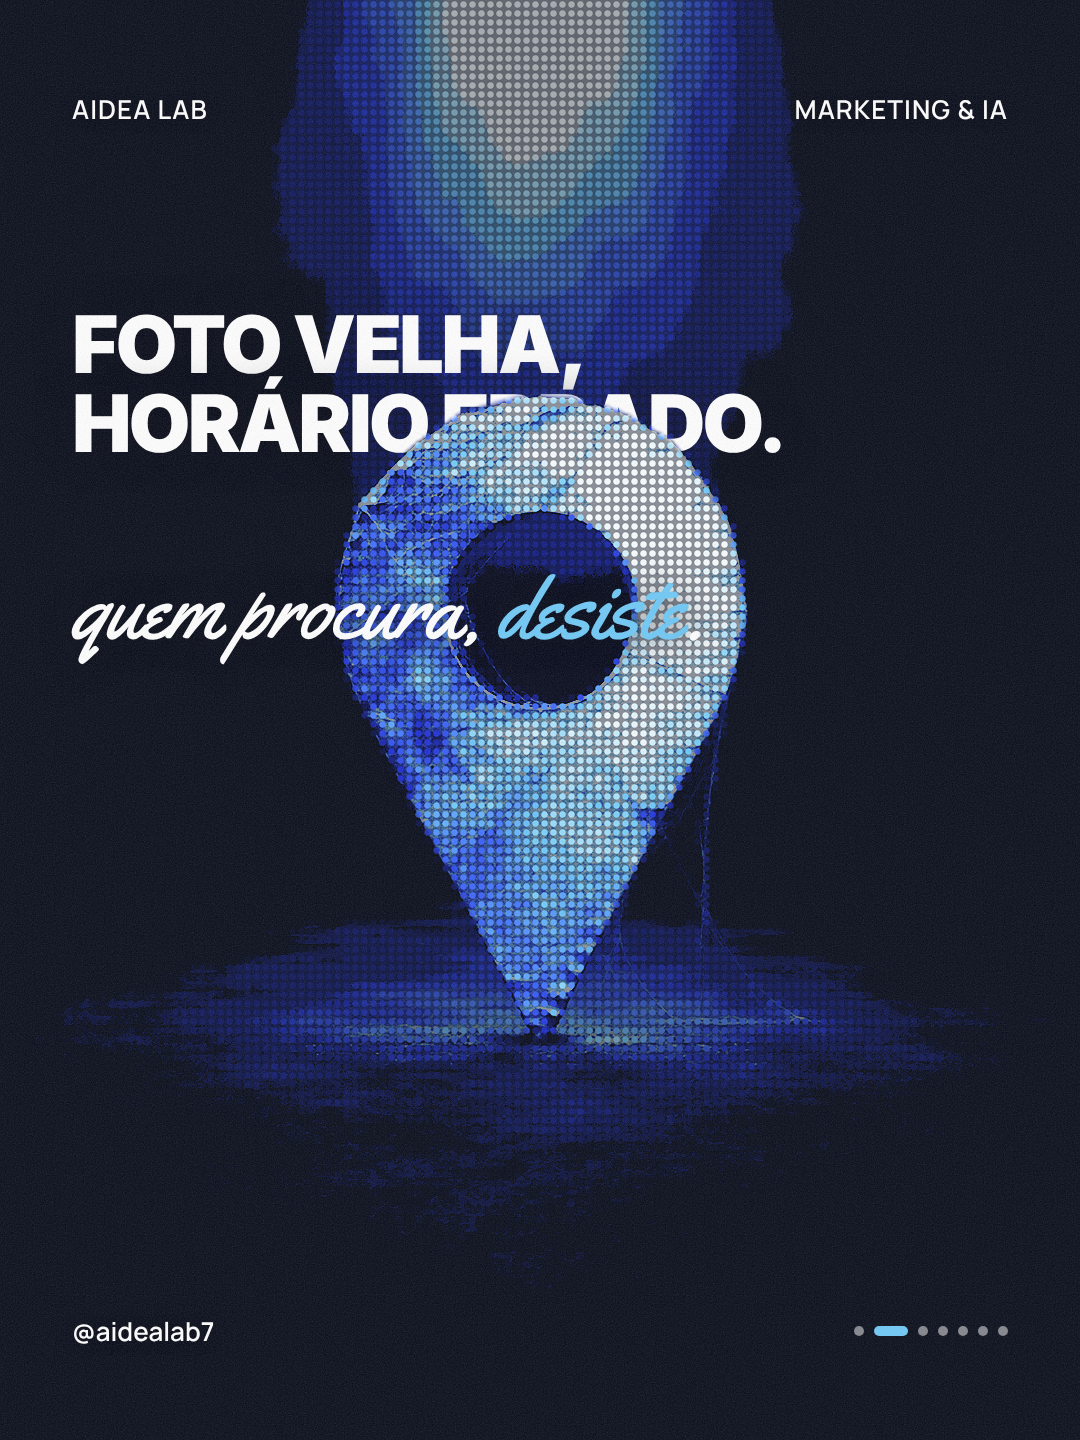
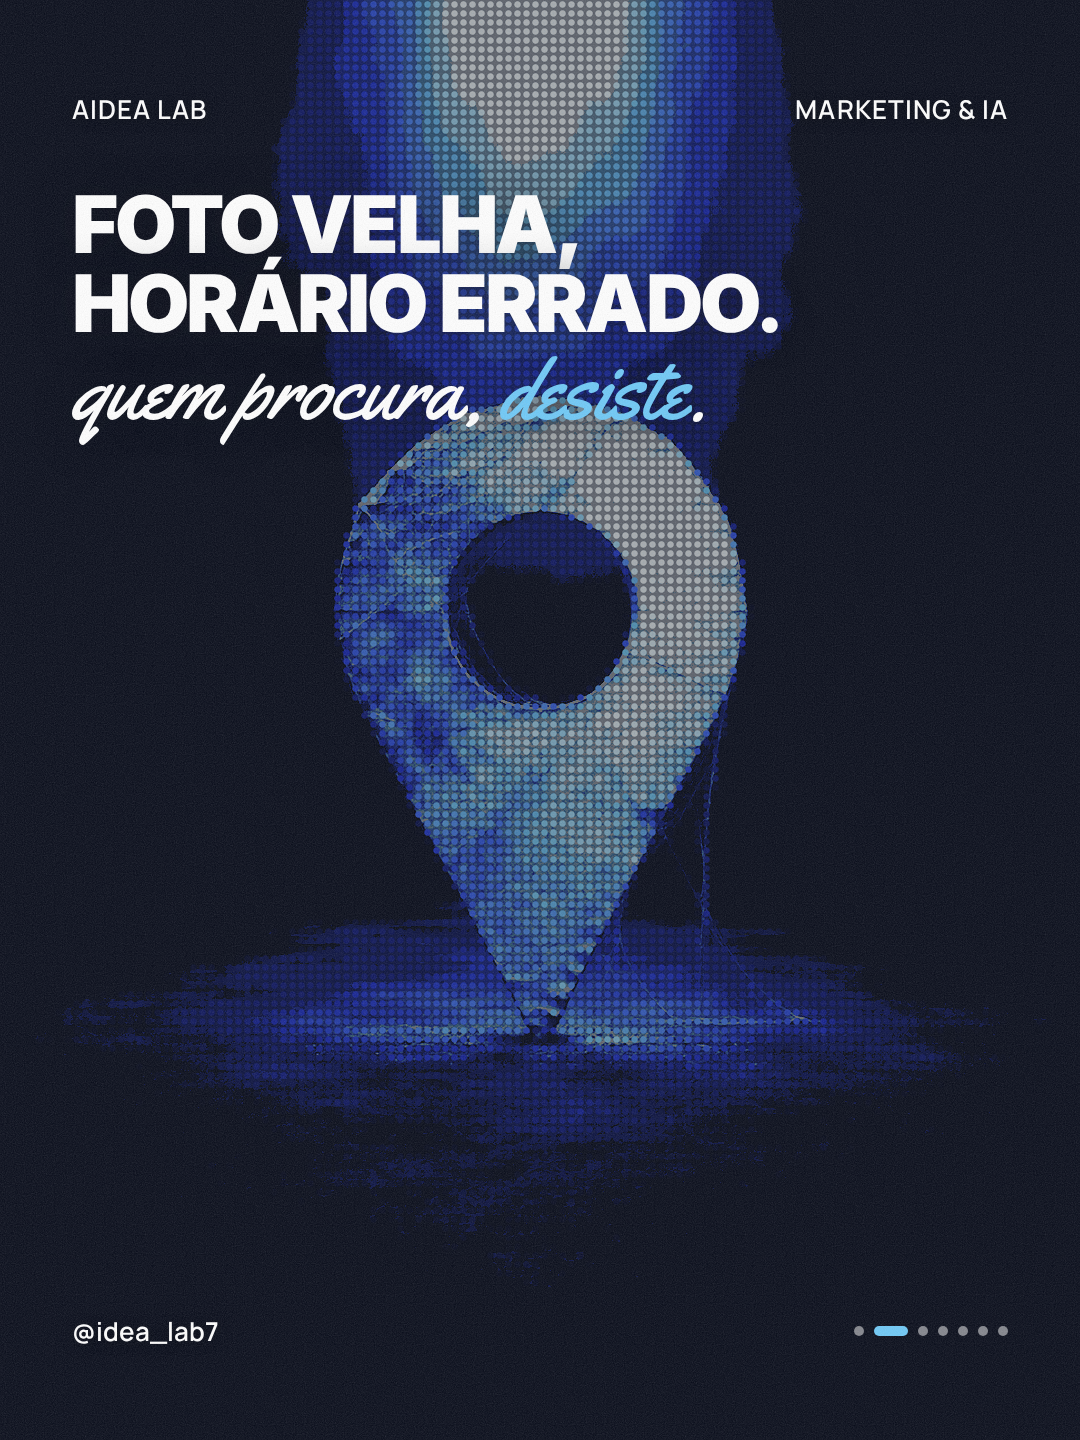
Corrige handle para @idea_lab7 e re-renderiza carrosséis; Drive atualiza rascunhos alterados; melhorias e campanha
- tema.json, prompt da rotina, voice-profile e render-engine antigo: @aidealab7 -> @idea_lab7
- 4 carrosséis do motor novo re-renderizados; títulos que ficavam atrás do personagem reposicionados
- upload_carrosseis.py substitui no Drive (04) os arquivos com md5 diferente
- estrategia/melhorias.md e estrategia/campanha-seguidores.md; pauta aponta para a campanha

Claude-Session: https://claude.ai/code/session_0154QHEi4ptCKxuEULmKRg4B

Changed region(s): [[0.0611, 0.125, 0.7333, 0.7188], [0.7333, 0.0625, 0.8861, 0.0938], [0.0917, 0.9062, 0.2139, 0.9375]]

diff --git a/agente aidealab/skills/criar-post/templates/render-engine/slide-miolo.html b/agente aidealab/skills/criar-post/templates/render-engine/slide-miolo.html
@@ -12,6 +12,6 @@
     <div class="t-card-accent">giro curto em serifa.</div>
     <div class="t-card-body">Texto explicativo em Inter regular branco 33px, 2 a 4 linhas, com a explicacao de verdade. <span class="kw">Uma palavra-chave</span> no acento no maximo.</div>
   </div></div>
-  <div class="t-footer-handle">@aidealab7</div><div class="t-footer-cat">02/06</div>
+  <div class="t-footer-handle">@idea_lab7</div><div class="t-footer-cat">02/06</div>
   <div class="t-footer-dots"><span></span><span class="active"></span><span></span><span></span><span></span><span></span></div>
 </div></body></html>

diff --git a/agente aidealab/automation/cloud/upload_carrosseis.py b/agente aidealab/automation/cloud/upload_carrosseis.py
@@ -2,9 +2,11 @@
 
 Etapa fixa do workflow `entregar.yml`: a rotina (claude.ai) não acessa o Drive. Para cada pasta em
 `agente aidealab/clientes/aidealab/carrosseis/<slug>/` com `png/metadata.json` em status "rascunho",
-cria `04-Carrosseis/<slug>/` e envia os PNGs, o metadata.json e o legenda.md. Pula slugs que já
-existem em 04, em 06-Aprovados-para-Postar/FILA ou em 06-Aprovados-para-Postar/POSTADOS.
+cria `04-Carrosseis/<slug>/` e envia os PNGs, o metadata.json e o legenda.md. Se o slug já existe em 04
+(rascunho re-renderizado), substitui só os arquivos cujo md5 mudou. Nunca toca em
+06-Aprovados-para-Postar/FILA nem em 06-Aprovados-para-Postar/POSTADOS.
 """
+import hashlib
 import json
 import sys
 from pathlib import Path
@@ -30,6 +32,25 @@ def achar(svc, caminho):
     return atual
 
 
+def sincronizar(svc, pasta, arquivos):
+    """Substitui no Drive os arquivos com md5 diferente do local e cria os que faltam. Devolve quantos mudaram."""
+    r = svc.files().list(q=f"'{pasta}' in parents and trashed = false", fields="files(id,name,md5Checksum)", pageSize=1000).execute()
+    remotos = {f["name"]: f for f in r["files"]}
+    mudados = 0
+    for f in arquivos:
+        md5 = hashlib.md5(f.read_bytes()).hexdigest()
+        atual = remotos.get(f.name)
+        if atual and atual.get("md5Checksum") == md5:
+            continue
+        media = MediaFileUpload(str(f), resumable=True)
+        if atual:
+            svc.files().update(fileId=atual["id"], media_body=media).execute()
+        else:
+            svc.files().create(body={"name": f.name, "parents": [pasta]}, media_body=media, fields="id").execute()
+        mudados += 1
+    return mudados
+
+
 def main():
     svc = get_service()
     destino = achar(svc, "Clientes/aidealab/04-Carrosseis")
@@ -37,16 +58,22 @@ def main():
     subs = filhos(svc, seis)
     fila = sorted(filhos(svc, subs["FILA"])) if "FILA" in subs else []
     postados = sorted(filhos(svc, subs["POSTADOS"])) if "POSTADOS" in subs else []
-    ja = set(filhos(svc, destino)) | set(fila) | set(postados)
+    em04 = filhos(svc, destino)
+    fechados = set(fila) | set(postados)
     enviados = 0
     for d in sorted(RAIZ.iterdir()) if RAIZ.exists() else []:
         meta = d / "png" / "metadata.json"
-        if not meta.exists() or d.name in ja:
+        if not meta.exists() or d.name in fechados:
             continue
         if json.loads(meta.read_text(encoding="utf-8")).get("status") != "rascunho":
             continue
-        pasta = svc.files().create(body={"name": d.name, "mimeType": PASTA, "parents": [destino]}, fields="id").execute()["id"]
         arquivos = sorted((d / "png").iterdir()) + ([d / "legenda.md"] if (d / "legenda.md").exists() else [])
+        if d.name in em04:
+            n = sincronizar(svc, em04[d.name], arquivos)
+            if n:
+                print("atualizado:", d.name, n, "arquivos")
+            continue
+        pasta = svc.files().create(body={"name": d.name, "mimeType": PASTA, "parents": [destino]}, fields="id").execute()["id"]
         for f in arquivos:
             svc.files().create(body={"name": f.name, "parents": [pasta]}, media_body=MediaFileUpload(str(f), resumable=True), fields="id").execute()
         print("enviado:", d.name, len(arquivos), "arquivos")

diff --git a/agente aidealab/clientes/aidealab/estrategia/campanha-seguidores.md b/agente aidealab/clientes/aidealab/estrategia/campanha-seguidores.md
@@ -1,0 +1,81 @@
+# Campanha "IA no Balcão" — 30 dias para crescer @idea_lab7
+
+**Período sugerido:** 13/10 a 11/11/2026.
+**Base (08/10):** 443 seguidores · alcance 28d 342 · visitas 102 · cliques 3.
+**Metas:** +500 seguidores (943), alcance 28d de 5.000+, 30 conversas na DM pelas palavras-chave, 10 diagnósticos marcados.
+**Por que dá para chegar lá:** hoje o perfil quase não aparece para quem não segue. Os ganhos vêm de três frentes que ainda não existem: Reels, collabs e envio por DM.
+
+## A ideia central
+Uma série de 30 dias com nome, promessa e hábito: **"IA no Balcão — uma tarefa a menos por dia no seu negócio"**.
+Cada peça resolve uma tarefa concreta de dono de pequeno negócio (responder cliente, pedir avaliação,
+cobrar orçamento, montar catálogo, postar) com IA, mostrando a tela. Quem segue sabe o que vai receber amanhã.
+
+## Pré-requisito (antes do dia 1)
+1. Perfil ajustado (NAME, bio, link pro WhatsApp, destaques, grid limpo): ver `melhorias.md` §1.
+2. Post fixado "Para quem é a aidealab" + Reel de abertura da campanha.
+3. 3 iscas prontas em PDF (skill `post-dm`): **ZAP** (modelo das perguntas do WhatsApp), **GOOGLE** (checklist do perfil da empresa), **PAUTA** (prompt da semana de conteúdo).
+
+## Ritmo semanal
+| Dia | Peça | Função |
+|---|---|---|
+| Seg | Carrossel (rotina 8h) | salvamento |
+| Ter | **Reel** 20–40s, tela gravada | alcance de quem não segue |
+| Qua | Carrossel | seguir / prova |
+| Qui | **Reel** "Mito ou verdade" com @luizota ou @wel falando | alcance + envio |
+| Sex | Carrossel com isca de DM | lead |
+| Sáb | **Reel** de bastidor ou Raio-X de um negócio | conexão |
+| Todo dia | 3–5 Stories: enquete, caixinha de pergunta, repost do post do dia | conversa com quem já segue |
+
+Reels usam o recurso de **teste (trial reels)** quando o gancho for novo: aparece primeiro para quem não segue.
+
+## As 4 alavancas
+### 1. Reels (o motor de alcance)
+- Gancho falado + escrito nos 2 primeiros segundos ("O WhatsApp ganhou IA. Olha onde fica.").
+- Cada carrossel vira um Reel na mesma semana (tela gravada do passo a passo).
+- Legenda com a palavra que o cliente busca na primeira linha ("atendimento no WhatsApp", "Google Meu Negócio").
+- Fechar com "Comenta PALAVRA" (gera comentário + DM, os sinais que mais pesam).
+
+### 2. Collabs locais (empréstimo de audiência)
+- 1 collab por semana com negócio da região (Campo Novo do Parecis / Cuiabá e MT): padaria, clínica, academia, loja.
+- Formato **Raio-X**: 3 ajustes no Instagram/WhatsApp/Google do parceiro, publicado como post em coautoria.
+  O post aparece para os seguidores dos dois perfis.
+- Abordagem: "Posso fazer um raio-x gratuito do seu perfil e publicar em parceria?" (lista de 20 negócios, meta de 4 aceites).
+
+### 3. Envio por DM (o sinal mais forte)
+- Todo carrossel de tendência ou mito fecha com "Manda pra quem ainda responde cliente à mão às 23h".
+- Conteúdo pensado para ser mandado para sócio, cônjuge ou funcionário: checklist curto, antes/depois.
+
+### 4. Desafio da semana 3 (pico da campanha)
+**"5 dias, 5 tarefas no automático"**: um Reel + Story por dia, cada um com uma tarefa (responder FAQ,
+pedir avaliação, cobrar orçamento parado, montar catálogo, agendar posts).
+Quem fizer e marcar @idea_lab7 nos Stories entra no sorteio de **3 diagnósticos completos grátis** (regras simples: seguir, fazer
+1 tarefa e marcar). Repostar todos os Stories marcados (prova social).
+
+## Impulso pago (opcional, R$ 15–20/dia)
+Só depois da semana 1, só no Reel que tiver mais envio/salvamento orgânico.
+Objetivo: visitas ao perfil. Público: donos de negócio, 25–55, raio de 50 km das cidades-alvo. Pausar se custo por visita passar de R$ 0,50.
+
+## Interação diária (30 min, não delegar)
+- Responder todo comentário na primeira hora após postar.
+- 10 comentários com conteúdo de verdade em perfis de negócios locais, associações comerciais, Sebrae MT e CDL.
+- Responder toda DM das palavras-chave no mesmo dia, com a isca + uma pergunta ("qual é o seu negócio?").
+
+## Calendário da campanha
+| Semana | Foco | Peças-âncora |
+|---|---|---|
+| 1 (13–19/10) | Lançamento e WhatsApp | Reel "O WhatsApp ganhou IA"; carrossel whatsapp-ganhou-ia; manifesto fixado |
+| 2 (20–26/10) | Google e ser encontrado | Reel "Perguntei pro Google"; carrossel perfil-google-parado; 1º Raio-X collab |
+| 3 (27/10–02/11) | **Desafio 5 dias** | 5 Reels curtos + sorteio dos diagnósticos |
+| 4 (03–11/11) | Prova e oferta | resultados do desafio, depoimentos, antes/depois; 1 post de oferta do diagnóstico |
+
+## Como medir (todo dia, automático)
+`automation/cloud/estado-instagram.json` (atualizado às 7h30): seguidores, alcance 28d, visitas,
+cliques e o desempenho de cada post. Revisão semanal toda segunda:
+- Reel com mais envios vira o próximo impulso pago e o formato da semana.
+- Carrossel com 0 salvamentos: mudar a forma (mais checklist, menos opinião).
+- Se em 14 dias não passar de 600 seguidores, dobrar collabs e Reels e cortar um carrossel.
+
+## O que não fazer
+- Comprar seguidor ou usar "follow/unfollow": derruba o alcance e suja os dados.
+- Repostar o mesmo Reel ou carrossel (o Instagram reduz alcance de conteúdo repetido).
+- Falar com designer ou profissional de marketing: o público é dono de negócio.

diff --git a/agente aidealab/clientes/aidealab/estrategia/melhorias.md b/agente aidealab/clientes/aidealab/estrategia/melhorias.md
@@ -1,0 +1,35 @@
+# O que precisa melhorar — @idea_lab7 (08/10/2026)
+
+Base: dados reais da Graph API (`automation/cloud/estado-instagram.json`) + revisão dos carrosséis.
+Marcar `[x]` quando resolver.
+
+## 1. Perfil (fazer esta semana, no app)
+- [ ] **NAME:** trocar `AIdea Lab 🤖` por `aidealab · IA pro seu negócio` (29 caracteres, campo que a busca lê).
+- [ ] **Bio:** hoje é lista de serviços com 5 emojis. Trocar por (129 car.):
+      `IA que o pequeno negócio usa amanhã de manhã.` / `Atendimento, conteúdo e vendas no automático.` / `👇 Diagnóstico grátis do seu Instagram`
+- [ ] **Link:** 3 cliques em 28 dias. Apontar direto para o WhatsApp com mensagem pronta ("Quero o diagnóstico grátis").
+- [ ] **Destaques:** Comece aqui · Antes/depois · IA no zap · Dúvidas · Fale com a gente.
+- [ ] **Grid:** arquivar os posts da série de história do design e os de 2025 fora do nicho (Ranch Sorting, "Da ideia à tela"), para os 9 de cima falarem só com dono de negócio.
+- [ ] **Fixar 3:** whatsapp-ganhou-ia (útil), manifesto "Para quem é a aidealab" (criar) e o melhor Reel quando existir.
+- [ ] Decidir o @: manter `@idea_lab7` ou migrar para `@aidealab` (se livre). Se migrar, trocar `handle` em `design-system/tema/tema.json` e re-renderizar.
+
+## 2. Conteúdo
+- [ ] **Sem Reels desde 2025.** Os Reels antigos alcançaram 254–493 contas; os carrosséis novos, 12–79. Sem Reels o perfil não chega a quem não segue. Meta: 3 Reels/semana (ver `campanha-seguidores.md`).
+- [ ] **0 salvamentos e 1 envio em 15 posts.** Todo post precisa de um motivo para salvar (checklist, passo a passo) ou enviar ("manda pra quem...").
+- [ ] **Nicho misturado.** Parar posts para designer (estilos, fontes, sites de referência). Público é dono de pequeno negócio.
+- [ ] **Abertura genérica de agência** ("Entra: processo manual...", "Na aidealab, ...") foi o pior desempenho. Abrir sempre com a cena do cliente.
+- [ ] **Oferta em sequência** (Dias 19–21, três posts de serviços seguidos). Máximo 1 oferta a cada 5 posts.
+- [ ] Rotina gera só carrossel → criar rotina de Reels (roteiro + tela gravada ou personagem falando).
+
+## 3. Carrosséis e engine
+- [x] Handle errado no rodapé (`@aidealab7`) corrigido no tema para `@idea_lab7`; os 4 rascunhos do motor novo foram re-renderizados.
+- [x] Palavras escondidas atrás do personagem/objeto corrigidas (perfil-google capa, slide 2 e CTA; pergunta-do-cliente capa; whatsapp-ganhou-ia capa).
+- [x] `upload_carrosseis.py` agora atualiza no Drive os rascunhos já existentes em 04 quando o PNG muda (antes pulava a pasta).
+- [ ] **Carrosséis já aprovados em `06-Aprovados-para-Postar/FILA` feitos pelo motor antes de 08/10 ainda têm `@aidealab7` no rodapé.** As imagens-fonte deles não estão no repositório, então não dá para re-renderizar daqui. Conferir no Drive antes de postar; se tiver o handle errado, mover de volta para 04 com as fotos originais para re-render.
+- [ ] perfil-google-parado, slide 7: a linha "a aidealab revisa com você" cai sobre a camiseta clara e perde contraste. Melhorar na engine: fundo/halo automático no texto de apoio do CTA quando a área for clara.
+- [ ] Capa: o título atrás da cabeça só funciona com folga acima do personagem. A rotina já pede "generous headroom"; quando o `compor.py` não achar espaço, refazer a foto (custou 1 regeração no whatsapp-ganhou-ia).
+- [ ] Repetição visual: 3 carrosséis seguidos com a mesma estrutura (T1-T2-T3-T2-T3-T2c-T4). Variar a sequência e usar T5 (referência) e diagrama quando couber.
+
+## 4. Medição
+- [ ] Rever metas em 22/10 comparando `conta_28d` com a base: alcance 342, visitas 102, cliques 3, 443 seguidores.
+- [ ] `ig_insights.py` não traz seguidores ganhos por dia (`follows_and_unfollows` veio vazio). Acompanhar `followers_count` diário pelo histórico do `estado-instagram.json` no git.

diff --git a/agente aidealab/clientes/aidealab/estrategia/pauta.md b/agente aidealab/clientes/aidealab/estrategia/pauta.md
@@ -3,6 +3,9 @@
 Fonte de verdade editorial da rotina "aidealab - carrossel diário 8h". Plano completo e
 justificativas em `plano-instagram-2026-10.md` (mesma pasta). Revisar a cada 14 dias.
 
+**Campanha ativa (13/10 a 11/11/2026): "IA no Balcão"** — ver `campanha-seguidores.md`. Nesse período
+use `meta.serie` = "IA NO BALCÃO" e siga o foco da semana do calendário da campanha. Pendências em `melhorias.md`.
+
 ## Para quem
 Dono(a) de pequeno negócio sem time de marketing (loja, clínica, serviço local, MEI) que
 responde cliente no WhatsApp e quer vender mais sem virar técnico. Nunca falar com designer

diff --git a/.claude/skills/instagram-skills/references/voice-profile.md b/.claude/skills/instagram-skills/references/voice-profile.md
@@ -54,7 +54,7 @@ writing skills mirror the rhythm and word choice of these, not a generic voice.
 Used by the illustration step (`lib.illustrate`) to keep every generated image
 on-brand via a pixel-exact overlay. All optional; leave blank to skip the overlay.
 
-- Handle to stamp on images: @aidealab7
+- Handle to stamp on images: @idea_lab7
 - Brand color (hex): navy/ciano (ver agente aidealab/clientes/aidealab/design-system/tokens.json)
 - Logo: (path or Pixfaro `logo_id`, if you have one)
 - Overlay position: (e.g. bottom-right)
